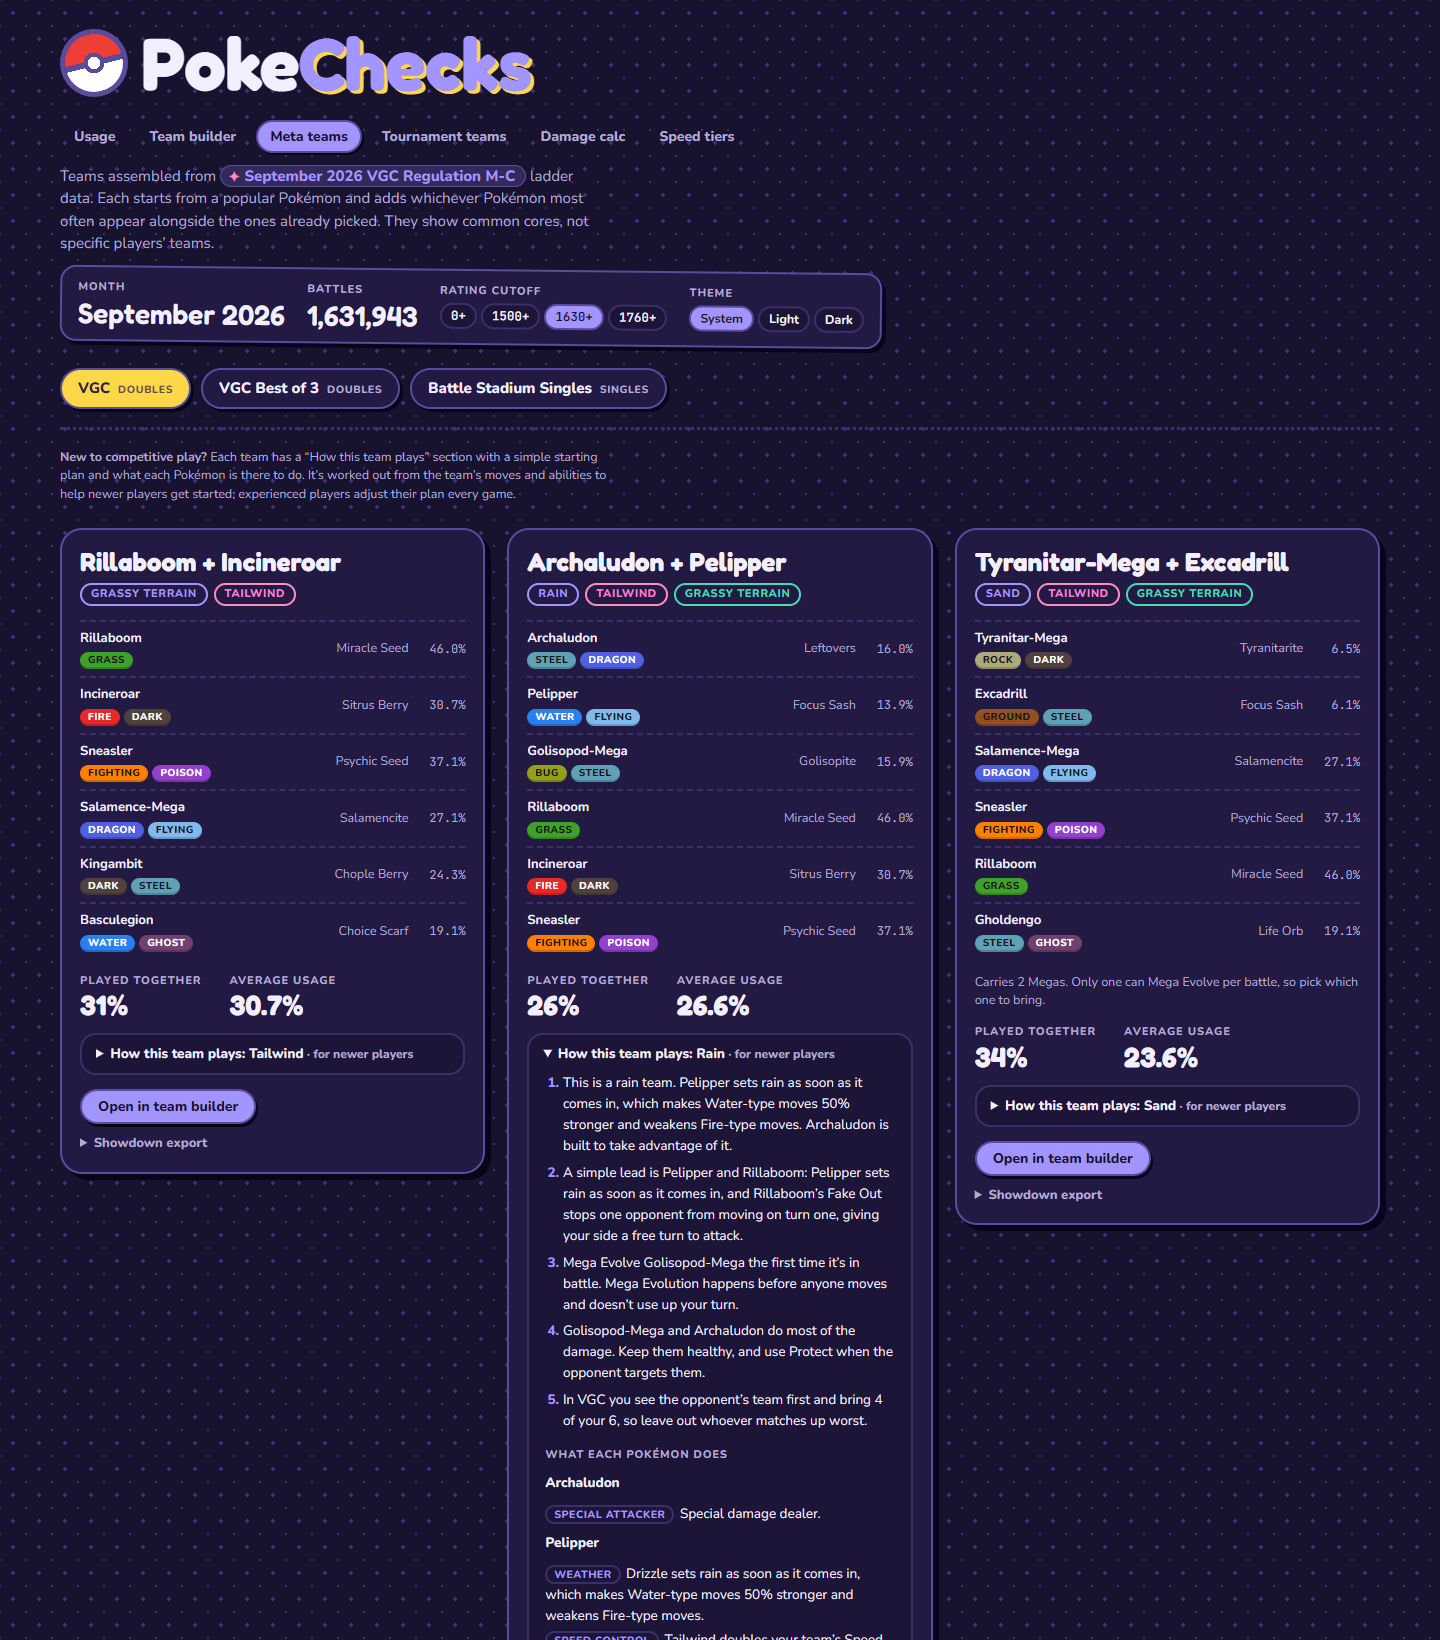
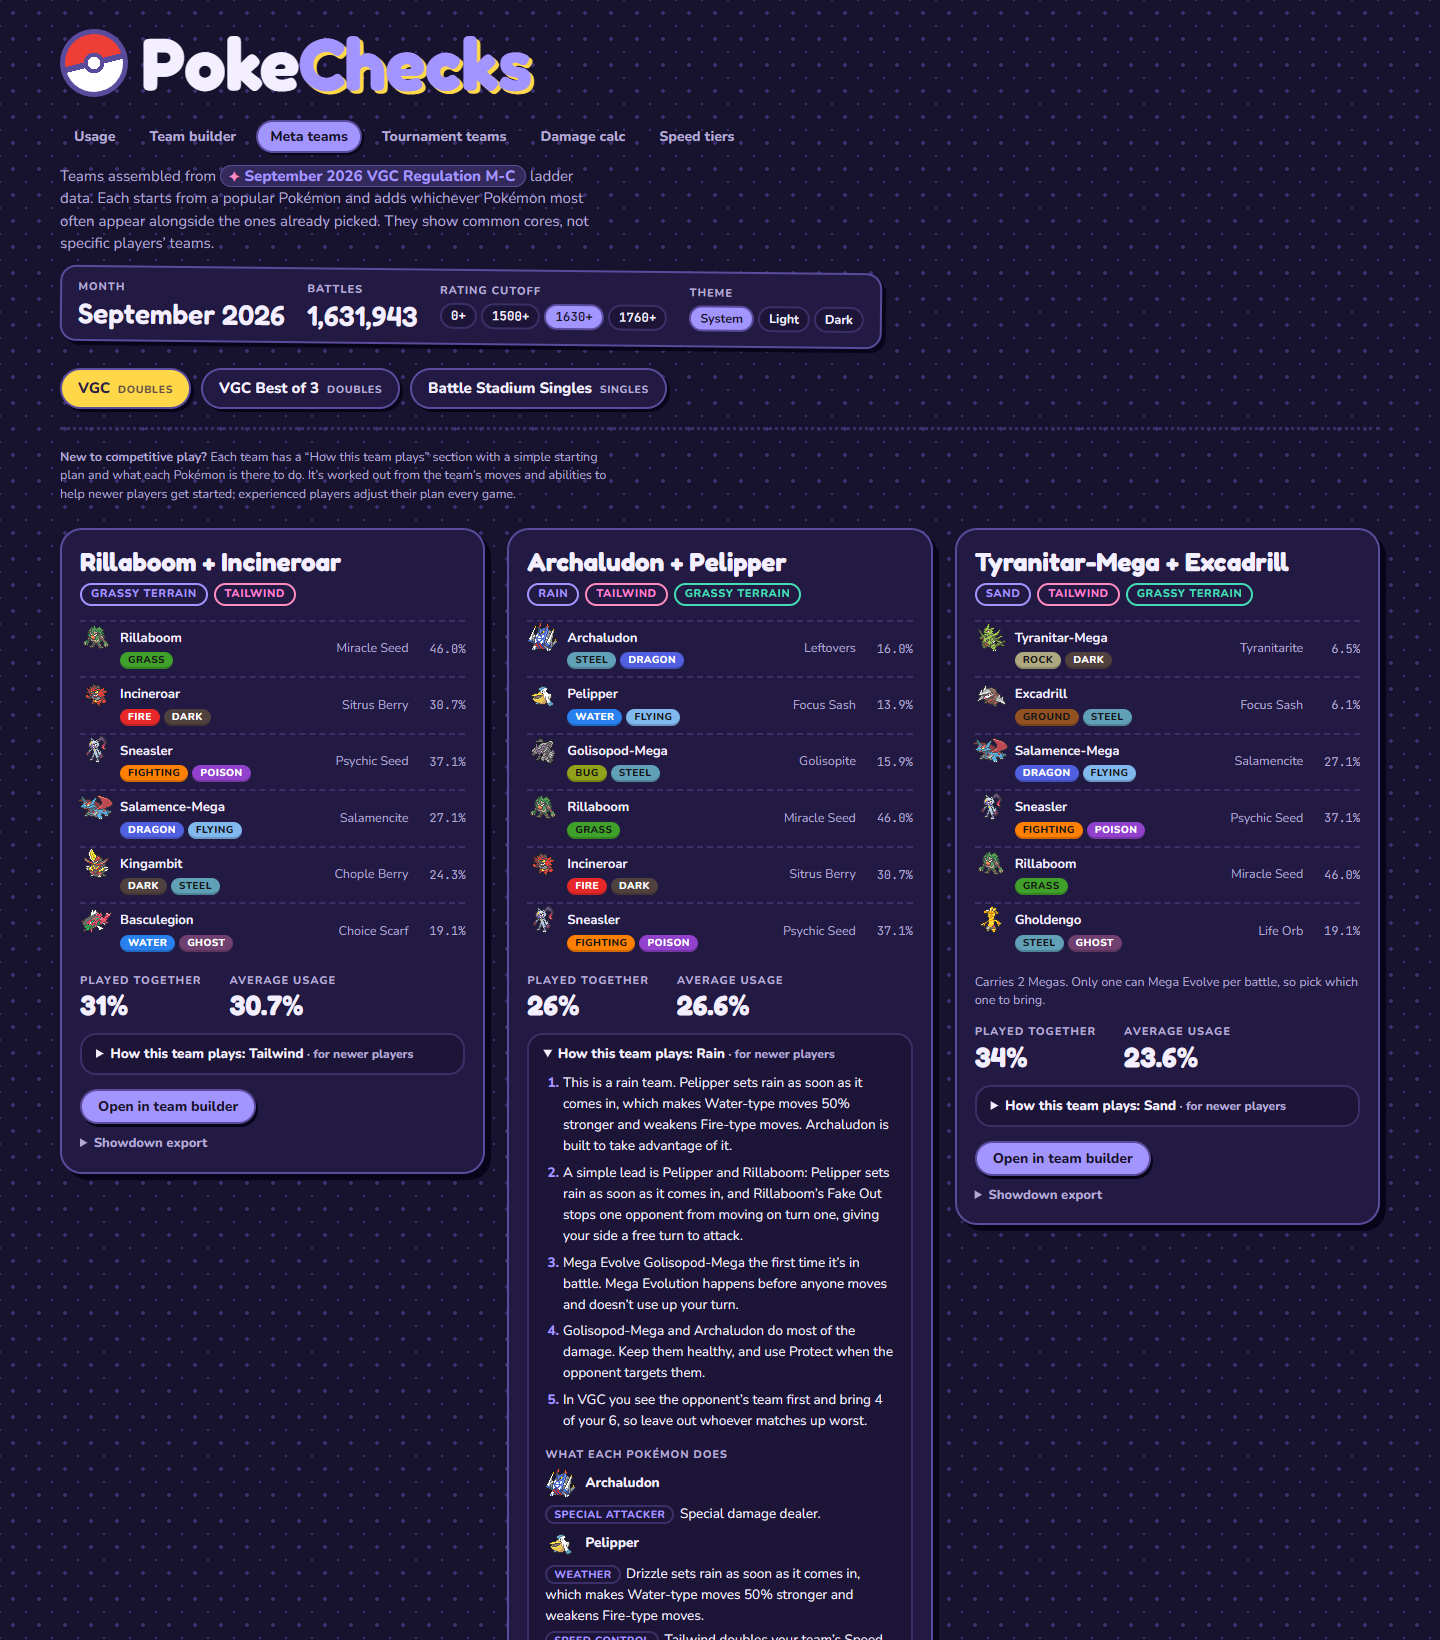
Update README screenshots with Pokémon sprites
Retake all five screenshots in the same views so they show the new mini
sprites, and mention the sprites and their source in the README.

diff --git a/README.md b/README.md
@@ -8,8 +8,8 @@ Written in Rust (edition 2024, Rust 1.99) with Axum and Maud. Pages are rendered
 server and need no JavaScript. A System / Light / Dark switch in the header lets each
 visitor pick a theme, remembered in a cookie; System follows the device setting. The look
 is playful on purpose: polka-dot paper in light mode, a starry night in dark mode, sticker
-panels, bubbly type and a CSS Poké Ball logo. Animations switch off for visitors who
-prefer reduced motion.
+panels, bubbly type, a CSS Poké Ball logo, and a mini sprite beside every Pokémon's name.
+Animations switch off for visitors who prefer reduced motion.
 
 Every meta team and tournament team has a "How this team plays" section for newer players:
 a short starting plan (the team's main idea, a simple lead, which Pokémon to Mega Evolve,
@@ -110,6 +110,7 @@ cargo clippy --all-targets -- -D warnings
 
 - Usage: [Smogon usage stats](https://www.smogon.com/stats/), the monthly "chaos" files.
 - Base stats, types, and move, item and ability names: [Pokémon Showdown](https://play.pokemonshowdown.com/data/).
+- Pokémon mini sprites: Pokémon Showdown's icon sheet, loaded by the visitor's browser from Showdown.
 - Tournament teams: the [Limitless public API](https://docs.limitlesstcg.com/developer.html).
 
 ## License
